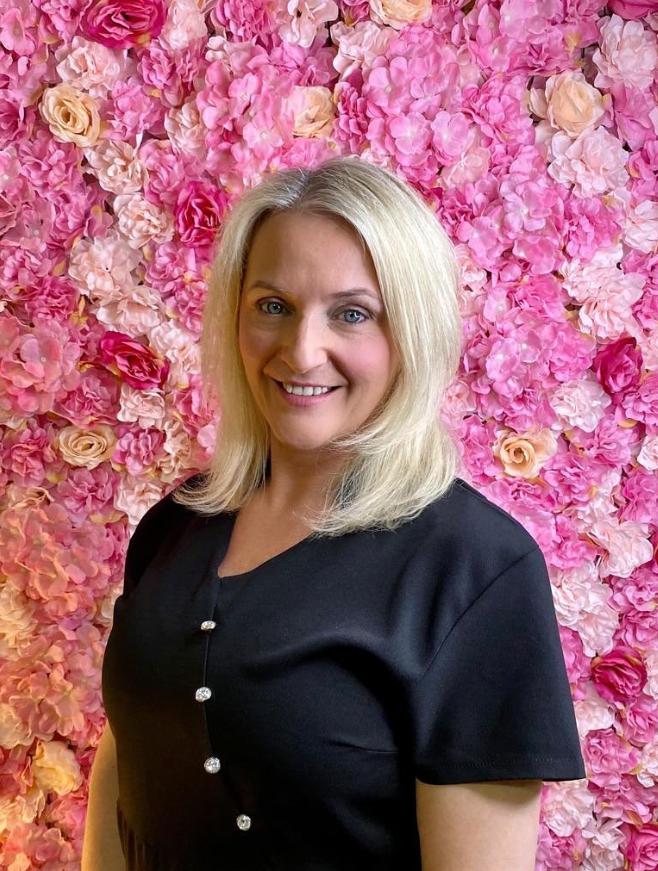
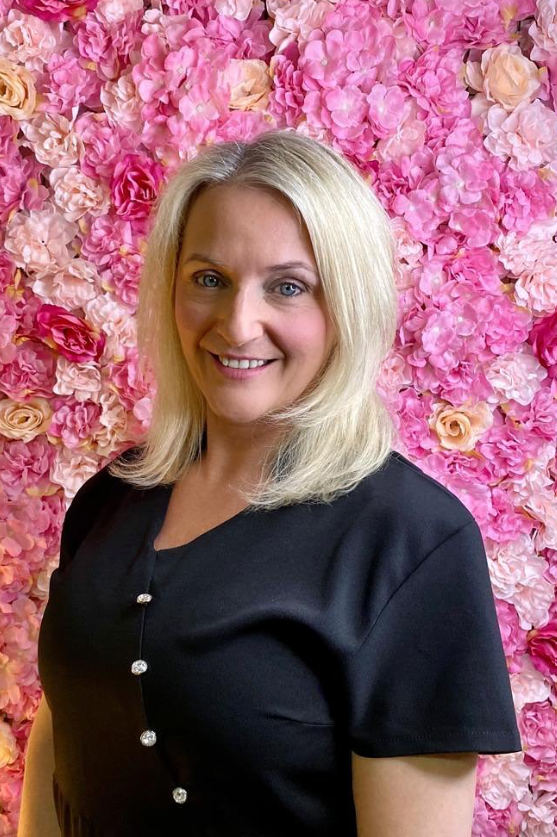
About us images

diff --git a/src/app/ui/about/about.component.html b/src/app/ui/about/about.component.html
@@ -18,3 +18,73 @@
     to ensure you can truly achieve your ideal skin goals.
   </div>
 </div>
+
+<div class="medium-width">
+  <div class="employee-wrapper">
+    <div class="employee-img">
+      <img src="../../../assets/images/about/melissa.png" alt="" />
+      <a class="overlay" href="/contact">
+        <p>Book now</p>
+      </a>
+    </div>
+    <div class="employee-info">
+      <p>
+        Lorem ipsum dolor sit amet consectetur adipisicing elit. Aliquid
+        exercitationem suscipit velit consequatur corporis facere, voluptate,
+        officia odit numquam rem reiciendis reprehenderit modi ipsum cumque.
+        Cupiditate magni pariatur commodi dolorum?
+      </p>
+    </div>
+  </div>
+
+  <div class="employee-wrapper">
+    <div class="employee-img">
+      <img src="../../../assets/images/about/lauren.png" alt="" />
+      <a class="overlay" href="/contact">
+        <p>Book now</p>
+      </a>
+    </div>
+    <div class="employee-info">
+      <p>
+        Lorem ipsum dolor sit amet consectetur adipisicing elit. Aliquid
+        exercitationem suscipit velit consequatur corporis facere, voluptate,
+        officia odit numquam rem reiciendis reprehenderit modi ipsum cumque.
+        Cupiditate magni pariatur commodi dolorum?
+      </p>
+    </div>
+  </div>
+
+  <div class="employee-wrapper">
+    <div class="employee-img">
+      <img src="../../../assets/images/about/Alice.png" alt="" />
+      <a class="overlay" href="/contact">
+        <p>Book now</p>
+      </a>
+    </div>
+    <div class="employee-info">
+      <p>
+        Lorem ipsum dolor sit amet consectetur adipisicing elit. Aliquid
+        exercitationem suscipit velit consequatur corporis facere, voluptate,
+        officia odit numquam rem reiciendis reprehenderit modi ipsum cumque.
+        Cupiditate magni pariatur commodi dolorum?
+      </p>
+    </div>
+  </div>
+
+  <div class="employee-wrapper">
+    <div class="employee-img">
+      <img src="../../../assets/images/about/donna.png" alt="" />
+      <a class="overlay" href="/contact">
+        <p>Book now</p>
+      </a>
+    </div>
+    <div class="employee-info">
+      <p>
+        Lorem ipsum dolor sit amet consectetur adipisicing elit. Aliquid
+        exercitationem suscipit velit consequatur corporis facere, voluptate,
+        officia odit numquam rem reiciendis reprehenderit modi ipsum cumque.
+        Cupiditate magni pariatur commodi dolorum?
+      </p>
+    </div>
+  </div>
+</div>

diff --git a/src/app/ui/about/about.component.scss b/src/app/ui/about/about.component.scss
@@ -20,3 +20,71 @@
 }
 
 ///
+.employee-wrapper {
+  display: flex;
+  justify-content: space-between;
+  margin-bottom: 50px;
+}
+
+.employee-img {
+  padding: 20px 25px;
+  background-color: #e0bdb9;
+  height: fit-content;
+  position: relative;
+  cursor: pointer;
+  &:hover .overlay {
+    opacity: 0.65;
+  }
+  img {
+    width: 230px;
+    height: 340px;
+    transition: 0.3s ease-in-out;
+    &:hover {
+      top: -2px;
+      box-shadow: 0 4px 5px rgba(0, 0, 0, 0.2);
+    }
+  }
+}
+
+.overlay {
+  position: absolute;
+  top: 0;
+  bottom: 0;
+  left: 0;
+  right: 0;
+  height: 100%;
+  width: 100%;
+  opacity: 0;
+  transition: 0.5s ease;
+  background-color: #000;
+  p {
+    color: white;
+    font-size: 20px;
+    position: absolute;
+    top: 50%;
+    left: 50%;
+    transform: translate(-50%, -50%);
+    text-align: center;
+  }
+}
+
+.employee-info {
+  padding: 40px;
+  text-align: center;
+  font-size: 1.3rem;
+  display: flex;
+  align-items: center;
+}
+
+@media screen and (max-width: 730px) {
+  .employee-info {
+    padding: 20px;
+  }
+}
+
+@media screen and (max-width: 540px) {
+  .employee-wrapper {
+    align-items: center;
+    flex-direction: column;
+  }
+}

diff --git a/src/assets/styles/shared.scss b/src/assets/styles/shared.scss
@@ -3,6 +3,11 @@
   margin: 0 auto;
 }
 
+.medium-width {
+  max-width: 1000px;
+  margin: 0 auto;
+}
+
 .container_1 {
   padding: 130px 0 70px 0;
 }
